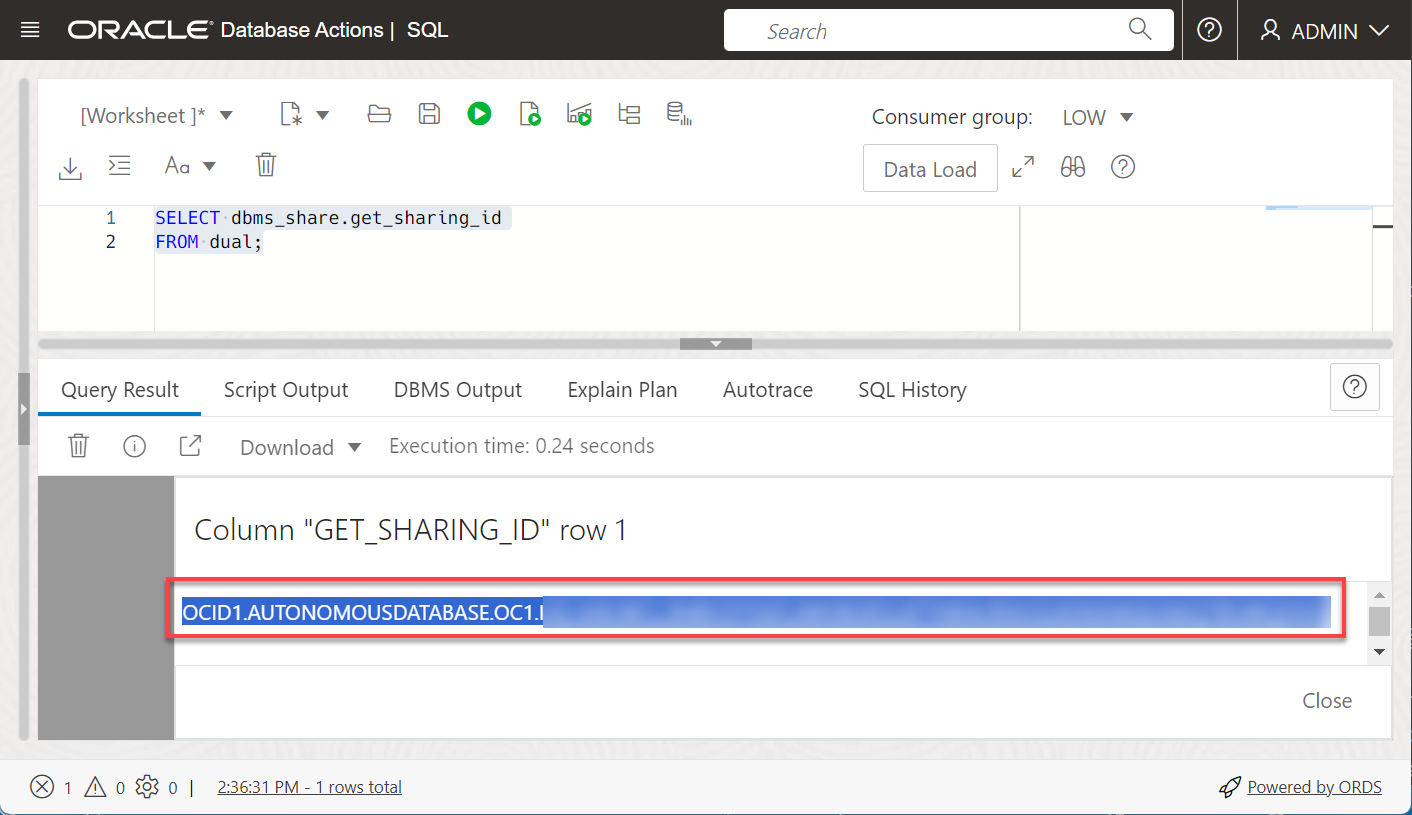
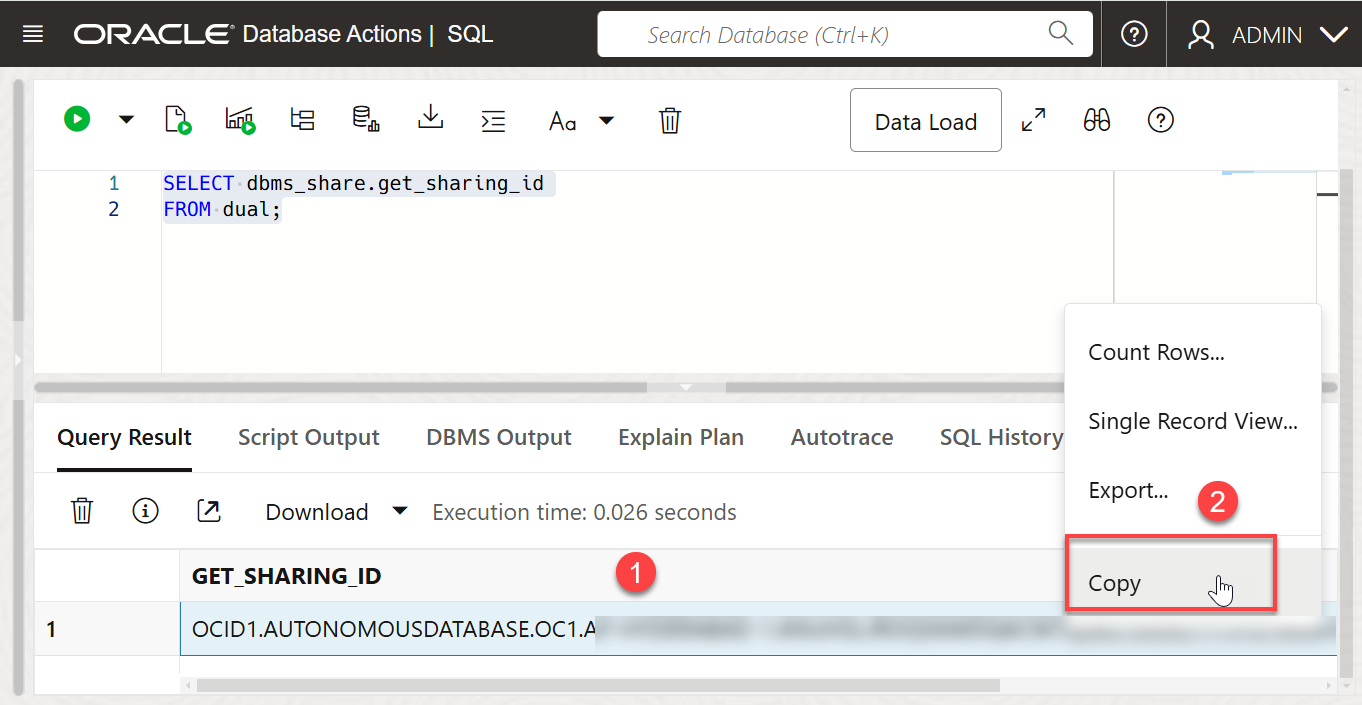
Sandbox version of the Set up live data sharing between Oracle Databases using Cloud Links and PL/SQL APIs workshop (#374)
* Update recipient-diagram.png

* diagram change

* Update user-bucket-credential-diagram.png

* SME feedback

* Update create-share.md

* Nilay changes

* changes

* Update consume-share.md

* Anoosha's feedback

* Update consume-share.md

* updated 2 screens and a sentence

* minor changes

* deleted extra images and added doc references

* new ECPU changes

* more changes to data sharing workshops

* more changes to fork (data studio)

* more changes

* Marty's feedback

* Marty's feedback to plsql workshop too

* Update setup-workshop-environment.md

* Delete 7381.png

* workshop # 3 ADB set up

and a couple of minor typos in workshops 1 and 2

* changes to adb-dcat workshop

* more changes

* minor typos in all 4 workshops

* quarterly qa build data lake

* new lab 11 in build DL with ADW

* minor changes database actions drop-down list

* final changes to build data lake workshop

* AI updates

AI workshop updates

* ai workshop updates

* Update query-using-select-ai.md

* Update query-using-select-ai.md

* updates

* more updates

* Update query-using-select-ai.md

* more new updates to ai workshop

* Update query-using-select-ai.md

* a new screen capture

* push Marty's feedback to fork

Final changes.

* updates sandbox manifest

* updates

* restored sandbox manifest

* Update setup-environment.md

* updates after CloudWorld

* final updates to ai workshop (also new labs 4 and 5)

* marty's feedback

* incorporated feedback

* minor PR edits by Sarah
[…]

diff --git a/shared/adw-data-lake/use-data-sharing-cloud-links-plsql/consume-share/consume-share.md b/shared/adw-data-lake/use-data-sharing-cloud-links-plsql/consume-share/consume-share.md
@@ -25,9 +25,17 @@ This lab assumes that you have successfully completed all of the preceding labs 
 
 In this lab, you will log in as the `admin` user to create a database user (schema) that will be used to consume the data share that the `share_provider` user created and shared with the `live_share_oracle_user` recipient. If you already have an existing schema with the appropriate privileges, you can use it. We chose to separate the share\_provider user (schema) from the share\_consumer user (schema) to simulate a real use case of data sharing between a provider and a consumer.
 
-1. Log out of the `share_provider` user. On the **Oracle Database Actions | SQL** banner, click the drop-down list next to the `SHARE_PROVIDER` user, and then select **Sign Out** from the drop-down menu. Click **Leave**, if prompted.
+1. Log out of the `share_provider` user. On the **Oracle Database Actions | SQL** banner, click the drop-down list next to the `SHARE_PROVIDER` user, and then select **Sign Out** from the drop-down menu.
 
+<if type="freetier">
 2. Log in as the **`admin`** user. On the **Sign-in** page, enter **`admin`** as the username and **`TrainingADW`** as the password, and then click **Sign in**.
+</if>
+
+<if type="livelabs">
+2. Log in as the **`admin`** user. On the **Sign-in** page, enter **`admin`** as the username. You can find your assigned **`admin`** user at the bottom of your **Reservation Information** dialog box. Next, click **Sign in**.
+
+    ![Get the assigned admin password](images/ll-assigned-admin-password.png)
+</if>
 
 3. You are now logged in as the **`admin`** user. On the Launchpad, click the **Development** tab, and then click the **SQL** tab to display the SQL Worksheet.
 
@@ -85,11 +93,11 @@ In this lab, you will log in as the `admin` user to create a database user (sche
 
     ![Enable share_consumer schema.](images/enable-share-consumer-schema.png)
 
-2. Log out of the **`admin`** user. On the **Oracle Database Actions | SQL** banner, click the drop-down list next to the `ADMIN` user, and then select **Sign Out** from the drop-down menu. Click **Leave**.
+2. Log out of the **`admin`** user. On the **Oracle Database Actions | SQL** banner, click the drop-down list next to the `ADMIN` user, and then select **Sign Out** from the drop-down menu.
 
-3. Log in as the newly created user, `share_consumer`. On the **Sign-in** page, enter **`share_consumer`** as the username and **`DataShare4ADW`** as the password, and then click **Sign in**.
+3. Log in as the newly created user, **`share_consumer`**. On the **Sign-in** page, enter **`share_consumer`** as the username and **`DataShare4ADW`** as the password, and then click **Sign in**.
 
-4.You are now logged in as the `share_consumer` user. On the Launchpad, click the **Development** tab, and then click the **SQL** tab to display the SQL Worksheet.
+4.You are now logged in as the **`share_consumer`** user. On the Launchpad, click the **Development** tab, and then click the **SQL** tab to display the SQL Worksheet.
 
 ![Logged in as share_consumer](images/login-as-consumer.png)
 
@@ -104,7 +112,7 @@ In this lab, you will log in as the `admin` user to create a database user (sche
 
     ![Have access to cloud links?](images/cloud-links-access.png)
 
-    The `YES` indicates that the `share_consumer` user is enabled for `READ` access to a data set.
+    The **`YES`** indicates that the **`share_consumer`** user is enabled for **`READ`** access to a data set.
 
 5. Query the share providers that are available to the `share_consumer` user.
 
@@ -149,7 +157,7 @@ In this lab, you will log in as the `admin` user to create a database user (sche
 
     Copy the value of the returned **provider id** as you will need it in the next step.
 
-2. Subscribe to the data share provider by creating a new share provider name that we called **`demo_live_provider`** in our example. _**Important:** Copy and paste the following script into your SQL Worksheet; **however, don't run it yet**. Replace the text place holder in the script for the **`oracle_provider_id`** argument with your own **`oracle_provider_id`** value that you obtained in the previous step._ Next, click the **Run Script** icon.
+2. Subscribe to the data share provider by creating a new share provider name that we called **`demo_live_provider`** in our example. _**Important:** Copy and paste the following script into your SQL Worksheet; **however, don't run it yet**. Replace the text place holder in the script for the **`oracle_provider_id`** argument with your own **`provider_id`** value that you obtained in the previous step._ Next, click the **Run Script** icon.
 
     ```
     <copy>
@@ -285,7 +293,7 @@ You may now proceed to the next lab.
 
 * **Author:** Lauran K. Serhal, Consulting User Assistance Developer
 * **Contributor:** Alexey Filanovskiy, Senior Principal Product Manager
-* **Last Updated By/Date:** Lauran K. Serhal, November 2024
+* **Last Updated By/Date:** Lauran K. Serhal, December 2024
 
 Data about movies in this workshop were sourced from Wikipedia.
 

diff --git a/shared/adw-data-lake/use-data-sharing-cloud-links-plsql/create-user/create-user.md b/shared/adw-data-lake/use-data-sharing-cloud-links-plsql/create-user/create-user.md
@@ -23,7 +23,9 @@ This lab assumes that you have successfully completed all of the preceding labs 
 ## Task 1: Navigate to the SQL Worksheet
 
 <if type="livelabs">
-Your green button reservation includes an ADB instance. You can find the required credentials in the **Reservation Information** dialog box for your reservation. To log in to the Console, click the **Launch OCI** button in the **Reservation Information** dialog box, and then follow the prompts to reset your assigned password.
+Your green button reservation includes an ADB instance. You can find the required credentials in the **Reservation Information** dialog box for your reservation. To log in to the Console, click the **Launch OCI** button in the **Reservation Information** dialog box, and then follow the prompts to reset your assigned password. If you get a **_Forbidden_** error, make sure you select your assigned compartment from the **Compartment** drop-down list in the **List Scope** section. Your assigned compartment is listed in the **Reservation Information** dialog box.
+
+ ![The Reservation Information dialog box.](./images/ll-reservation-information.png " ")
 </if>
 
 1. Log in to the **Oracle Cloud Console**, if you are not already logged in.
@@ -112,7 +114,7 @@ Autonomous Database comes with a predefined database role named `DWROLE`. This r
 
     ![Determine the consumer share id](images/get-sharing-id.png)
 
-2. Copy the **`get_sharing_id`** value to a text editor of your choice. You will need this value later. Click the **eye** icon. The **`get_sharing_id`** value is highlighted.
+2. Copy the **`get_sharing_id`** value to a text editor of your choice. You will need this value later. Right-click the **`get_sharing_id`** value, and then click **Copy** from the context.
 
     ![Copy the sharing id value](images/copy-sharing-id.png)
 
@@ -132,12 +134,12 @@ Autonomous Database comes with a predefined database role named `DWROLE`. This r
 
     ![Logged in as share_provider](images/logged-share-provider.png)
 
-    The SQL Worksheet is displayed.
+    The SQL Worksheet is displayed. If an information box is displayed, close it.
 
     ![The SQL Worksheet is displayed for the share_provider user](images/share-provider-worksheet.png)
 
 
-5. Provide the share provider user identity information. This enables consumers to see this share provider user and the user's shared data. This is a free formed metadata. Provide a meaningful **name**, **description**, and an **email** address. Copy and paste the following script into your SQL Worksheet, and then click the **Run Script (F5)** icon in the Worksheet toolbar.
+5. Provide the share provider user identity information. This enables consumers to see this share provider user and the user's shared data. This is a free form metadata. Provide a meaningful **name**, **description**, and an **email** address. Copy and paste the following script into your SQL Worksheet, and then click the **Run Script (F5)** icon in the Worksheet toolbar.
 
     ```
     <copy>
@@ -180,7 +182,7 @@ You may now proceed to the next lab.
 
 * **Author:** Lauran K. Serhal, Consulting User Assistance Developer
 * **Contributor:** Alexey Filanovskiy, Senior Principal Product Manager
-* **Last Updated By/Date:** Lauran K. Serhal, November 2024
+* **Last Updated By/Date:** Lauran K. Serhal, December 2024
 
 Data about movies in this workshop were sourced from Wikipedia.
 

diff --git a/shared/adw-data-lake/use-data-sharing-cloud-links-plsql/create-share-recipients/create-share-recipients.md b/shared/adw-data-lake/use-data-sharing-cloud-links-plsql/create-share-recipients/create-share-recipients.md
@@ -96,7 +96,8 @@ You may now proceed to the next lab.
 
 * **Author:** Lauran K. Serhal, Consulting User Assistance Developer
 * **Contributor:** Alexey Filanovskiy, Senior Principal Product Manager
-* **Last Updated By/Date:** Lauran K. Serhal, November 2024
+* **Last Updated By/Date:** Lauran K. Serhal, December 2024
+
 
 Data about movies in this workshop were sourced from Wikipedia.
 

diff --git a/shared/adw-data-lake/use-data-sharing-cloud-links-plsql/create-share/create-share.md b/shared/adw-data-lake/use-data-sharing-cloud-links-plsql/create-share/create-share.md
@@ -193,7 +193,7 @@ You may now proceed to the next lab.
 
 * **Author:** Lauran K. Serhal, Consulting User Assistance Developer
 * **Contributor:** Alexey Filanovskiy, Senior Principal Product Manager
-* **Last Updated By/Date:** Lauran K. Serhal, November 2024
+* **Last Updated By/Date:** Lauran K. Serhal, December 2024
 
 Data about movies in this workshop were sourced from Wikipedia.
 

diff --git a/shared/adw-data-lake/use-data-sharing-cloud-links-plsql/setup-workshop-environment/setup-workshop-environment.md b/shared/adw-data-lake/use-data-sharing-cloud-links-plsql/setup-workshop-environment/setup-workshop-environment.md
@@ -164,7 +164,7 @@ You may now proceed to the next lab.
 ## Acknowledgements
 
 * **Author:** Lauran K. Serhal, Consulting User Assistance Developer
-* **Last Updated By/Date:** Lauran Serhal, November 2024
+* **Last Updated By/Date:** Lauran Serhal, December 2024
 
 Data about movies in this workshop were sourced from Wikipedia.
 
